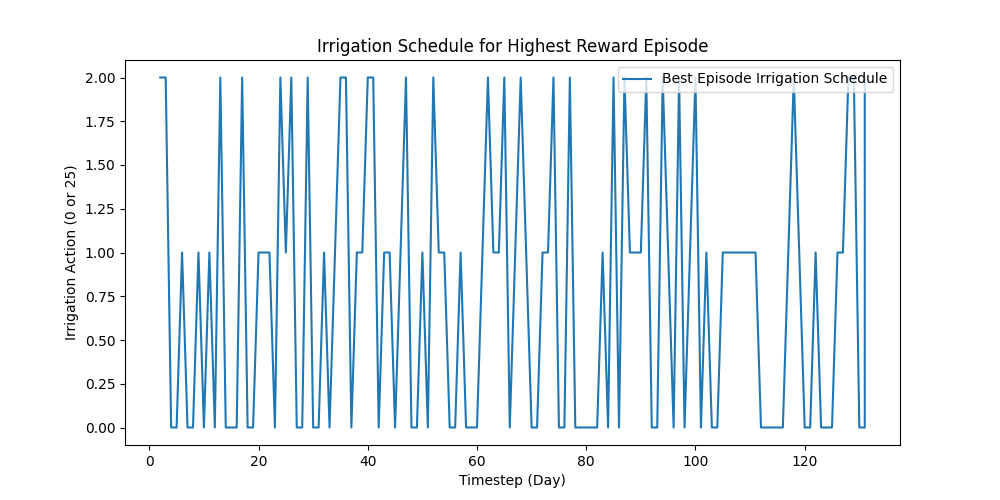
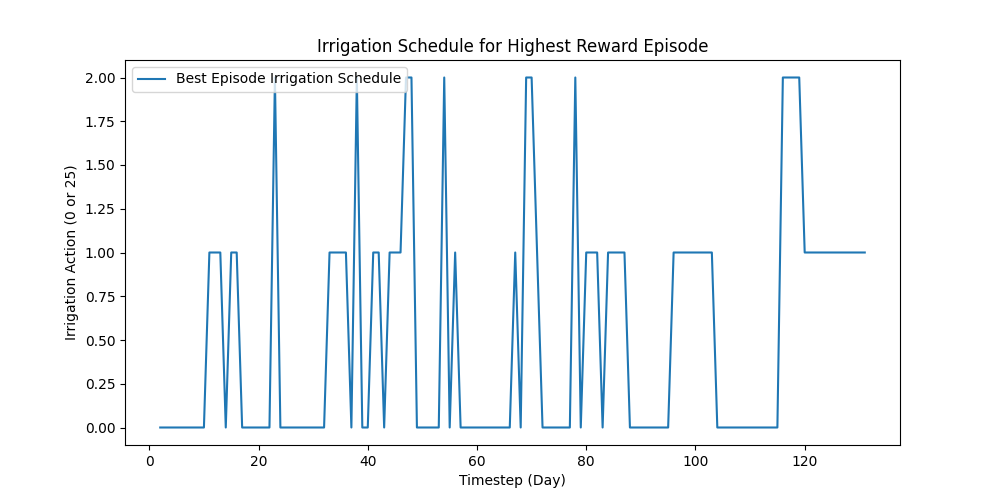
irrigation with alpha

Changed region(s): [[0.124, 0.15, 0.899, 0.87]]

diff --git a/aquacroprice/envs/rice.py b/aquacroprice/envs/rice.py
@@ -180,17 +180,31 @@ class Rice(gym.Env):
         if terminated:
             dry_yield = self.model._outputs.final_stats['Dry yield (tonne/ha)'].mean()
             total_irrigation = self.model._outputs.final_stats['Seasonal irrigation (mm)'].mean()
+            
+            # Define your target yield and alpha
+            target_yield = 14  # Target yield in tonnes/ha
+            alpha = 15  # Penalty coefficient
 
-            reward = ((dry_yield * 200) - (total_irrigation * 5)) / 10
+            # Calculate the base reward
+            base_reward = ((dry_yield * 200) - (total_irrigation * 5)) / 10
+
+            # Calculate the penalty based on how far the yield is from the target
+            penalty = alpha * (target_yield - dry_yield) if dry_yield < target_yield else 0
+
+            # Final reward is the base reward minus any penalty
+            reward = base_reward - penalty
 
             # Logging to help debug and understand the reward structure
             print(f"Dry Yield: {dry_yield}")
             print(f"Total Irrigation: {total_irrigation}")
+            print(f"Base Reward: {base_reward}")
+            print(f"Penalty: {penalty}")
             print(f"Final Reward: {reward}")
         
         info = dict()
 
         return next_obs, reward, terminated, truncated, info
+
 
 
 
